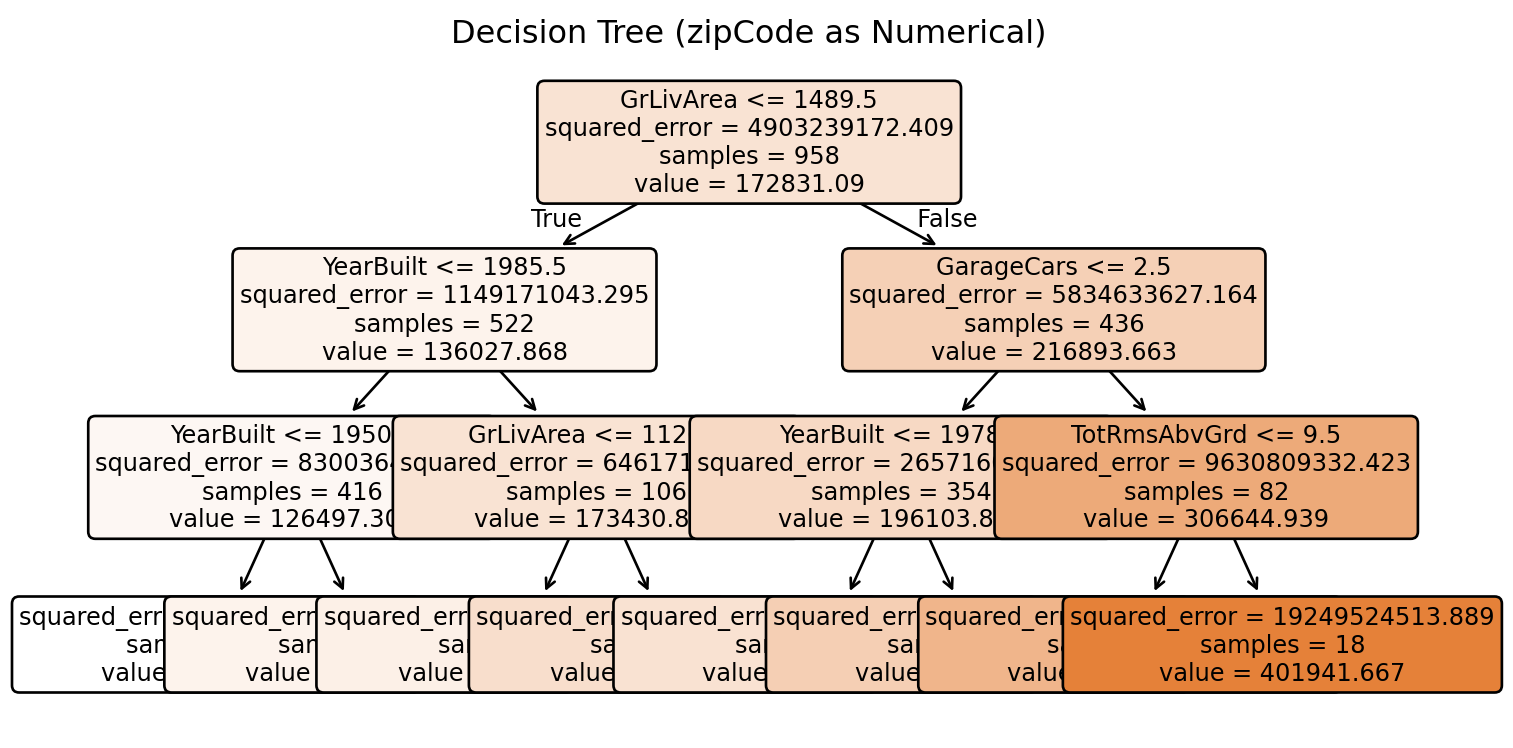
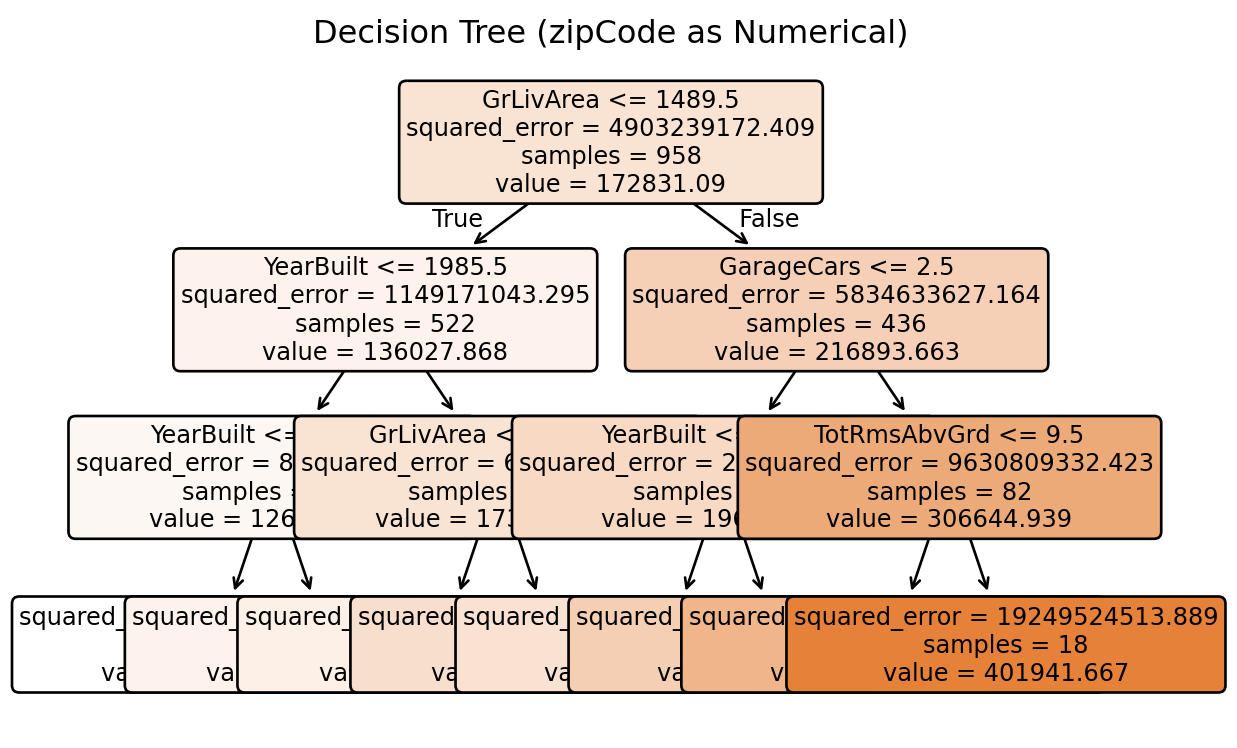
Update decision tree challenge and rendered output

Changed region(s): [[0.0, 0.0922, 1.0, 0.9225], [0.2458, 0.0307, 0.7373, 0.0615]]

diff --git a/index.html b/index.html
@@ -123,7 +123,7 @@ ul.task-list li input[type="checkbox"] {
 <div class="cell-output cell-output-display">
 <div>
 <figure class="figure">
-<p><img src="index_files/figure-html/visualize-tree-python-output-1.png" id="visualize-tree-python" width="757" height="374" class="figure-img"></p>
+<p><img src="index_files/figure-html/visualize-tree-python-output-1.png" id="visualize-tree-python" width="619" height="374" class="figure-img"></p>
 </figure>
 </div>
 </div>
@@ -186,7 +186,7 @@ ul.task-list li input[type="checkbox"] {
 <div class="cell-output cell-output-display">
 <div>
 <figure class="figure">
-<p><img src="index_files/figure-html/visualize-tree-cat-python-output-1.png" id="visualize-tree-cat-python" width="750" height="374" class="figure-img"></p>
+<p><img src="index_files/figure-html/visualize-tree-cat-python-output-1.png" id="visualize-tree-cat-python" width="612" height="374" class="figure-img"></p>
 </figure>
 </div>
 </div>
@@ -233,59 +233,7 @@ ul.task-list li input[type="checkbox"] {
 <h2 class="anchored" data-anchor-id="getting-started-repository-setup">Getting Started: Repository Setup 🚀</h2>
 <section id="getting-started-tips" class="level3">
 <h3 class="anchored" data-anchor-id="getting-started-tips">Getting Started Tips</h3>
-<div class="callout callout-style-default callout-note callout-titled">
-<div class="callout-header d-flex align-content-center">
-<div class="callout-icon-container">
-<i class="callout-icon"></i>
-</div>
-<div class="callout-title-container flex-fill">
-<span class="screen-reader-only">Note</span>🎯 Navy SEALs Motto
-</div>
-</div>
-<div class="callout-body-container callout-body">
-<blockquote class="blockquote">
-<p>“Slow is Smooth and Smooth is Fast”</p>
-</blockquote>
-<p><em>Take your time to understand the decision tree mechanics, plan your approach carefully, and execute with precision. Rushing through this challenge will only lead to errors and confusion.</em></p>
-</div>
-</div>
-<div class="callout callout-style-default callout-warning callout-titled">
-<div class="callout-header d-flex align-content-center">
-<div class="callout-icon-container">
-<i class="callout-icon"></i>
-</div>
-<div class="callout-title-container flex-fill">
-<span class="screen-reader-only">Warning</span>💾 Important: Save Your Work Frequently!
-</div>
-</div>
-<div class="callout-body-container callout-body">
-<p><strong>Before you start:</strong> Make sure to commit your work often using the Source Control panel in Cursor (Ctrl+Shift+G or Cmd+Shift+G). This prevents the AI from overwriting your progress and ensures you don’t lose your work.</p>
-<p><strong>Commit after each major step:</strong></p>
-<ul>
-<li>After adding your discussion answers</li>
-<li>After rendering to HTML</li>
-<li>Before asking the AI for help with new code</li>
-</ul>
-<p><strong>How to commit:</strong></p>
-<ol type="1">
-<li>Open Source Control panel (Ctrl+Shift+G)</li>
-<li>Stage your changes (+ button)</li>
-<li>Write a descriptive commit message</li>
-<li>Click the checkmark to commit</li>
-</ol>
-<p><em>Remember: Frequent commits are your safety net!</em></p>
-</div>
-</div>
 </section>
-</section>
-<section id="discussion-questions-for-challenge" class="level2">
-<h2 class="anchored" data-anchor-id="discussion-questions-for-challenge">Discussion Questions for Challenge</h2>
-<p><strong>Your Task:</strong> Add thoughtful narrative answers to these two questions in the Discussion Questions section of your rendered HTML site.</p>
-<ol type="1">
-<li><p><strong>Numerical vs Categorical Encoding:</strong> There are two modelsin Python written above. For each language, the models differ by how zip code is modelled, either as a numerical variable or as a categorical variable. Given what you know about zip codes and real estate prices, how should zip code be modelled, numerically or categorically? Is zipcode and ordinal or non-ordinal variable?</p></li>
-<li><p><strong>R vs Python Implementation Differences:</strong> When modelling zip code as a categorical variable, the output tree and feature importance would differ quite significantly had you used R as opposed to Python. Investigate why this is the case. What does R offer that Python does not? Which language would you say does a better job of modelling zip code as a categorical variable? Can you quote the documentation at <a href="https://scikit-learn.org/stable/modules/tree.html">https://scikit-learn.org/stable/modules/tree.html</a> suggesting a weakness in the Python implementation? If so, please provide a quote from the documentation.</p></li>
-<li><p><strong>Are There Any Suggestions for Implementing Decision Trees in Python With Prioper Categorical Handling?</strong> Please poke around the Internet (AI is not as helpful with new libraries) for suggestions on how to implement decision trees in Python with better (i.e.&nbsp;not one-hot encoding) categorical handling. Please provide a link to the source and a quote from the source. There is not right answer here, but please provide a thoughtful answer, I am curious to see what you find.</p></li>
-</ol>
 </section>
 <section id="discussion-questions-and-analysis" class="level2">
 <h2 class="anchored" data-anchor-id="discussion-questions-and-analysis">Discussion Questions and Analysis 📊</h2>
